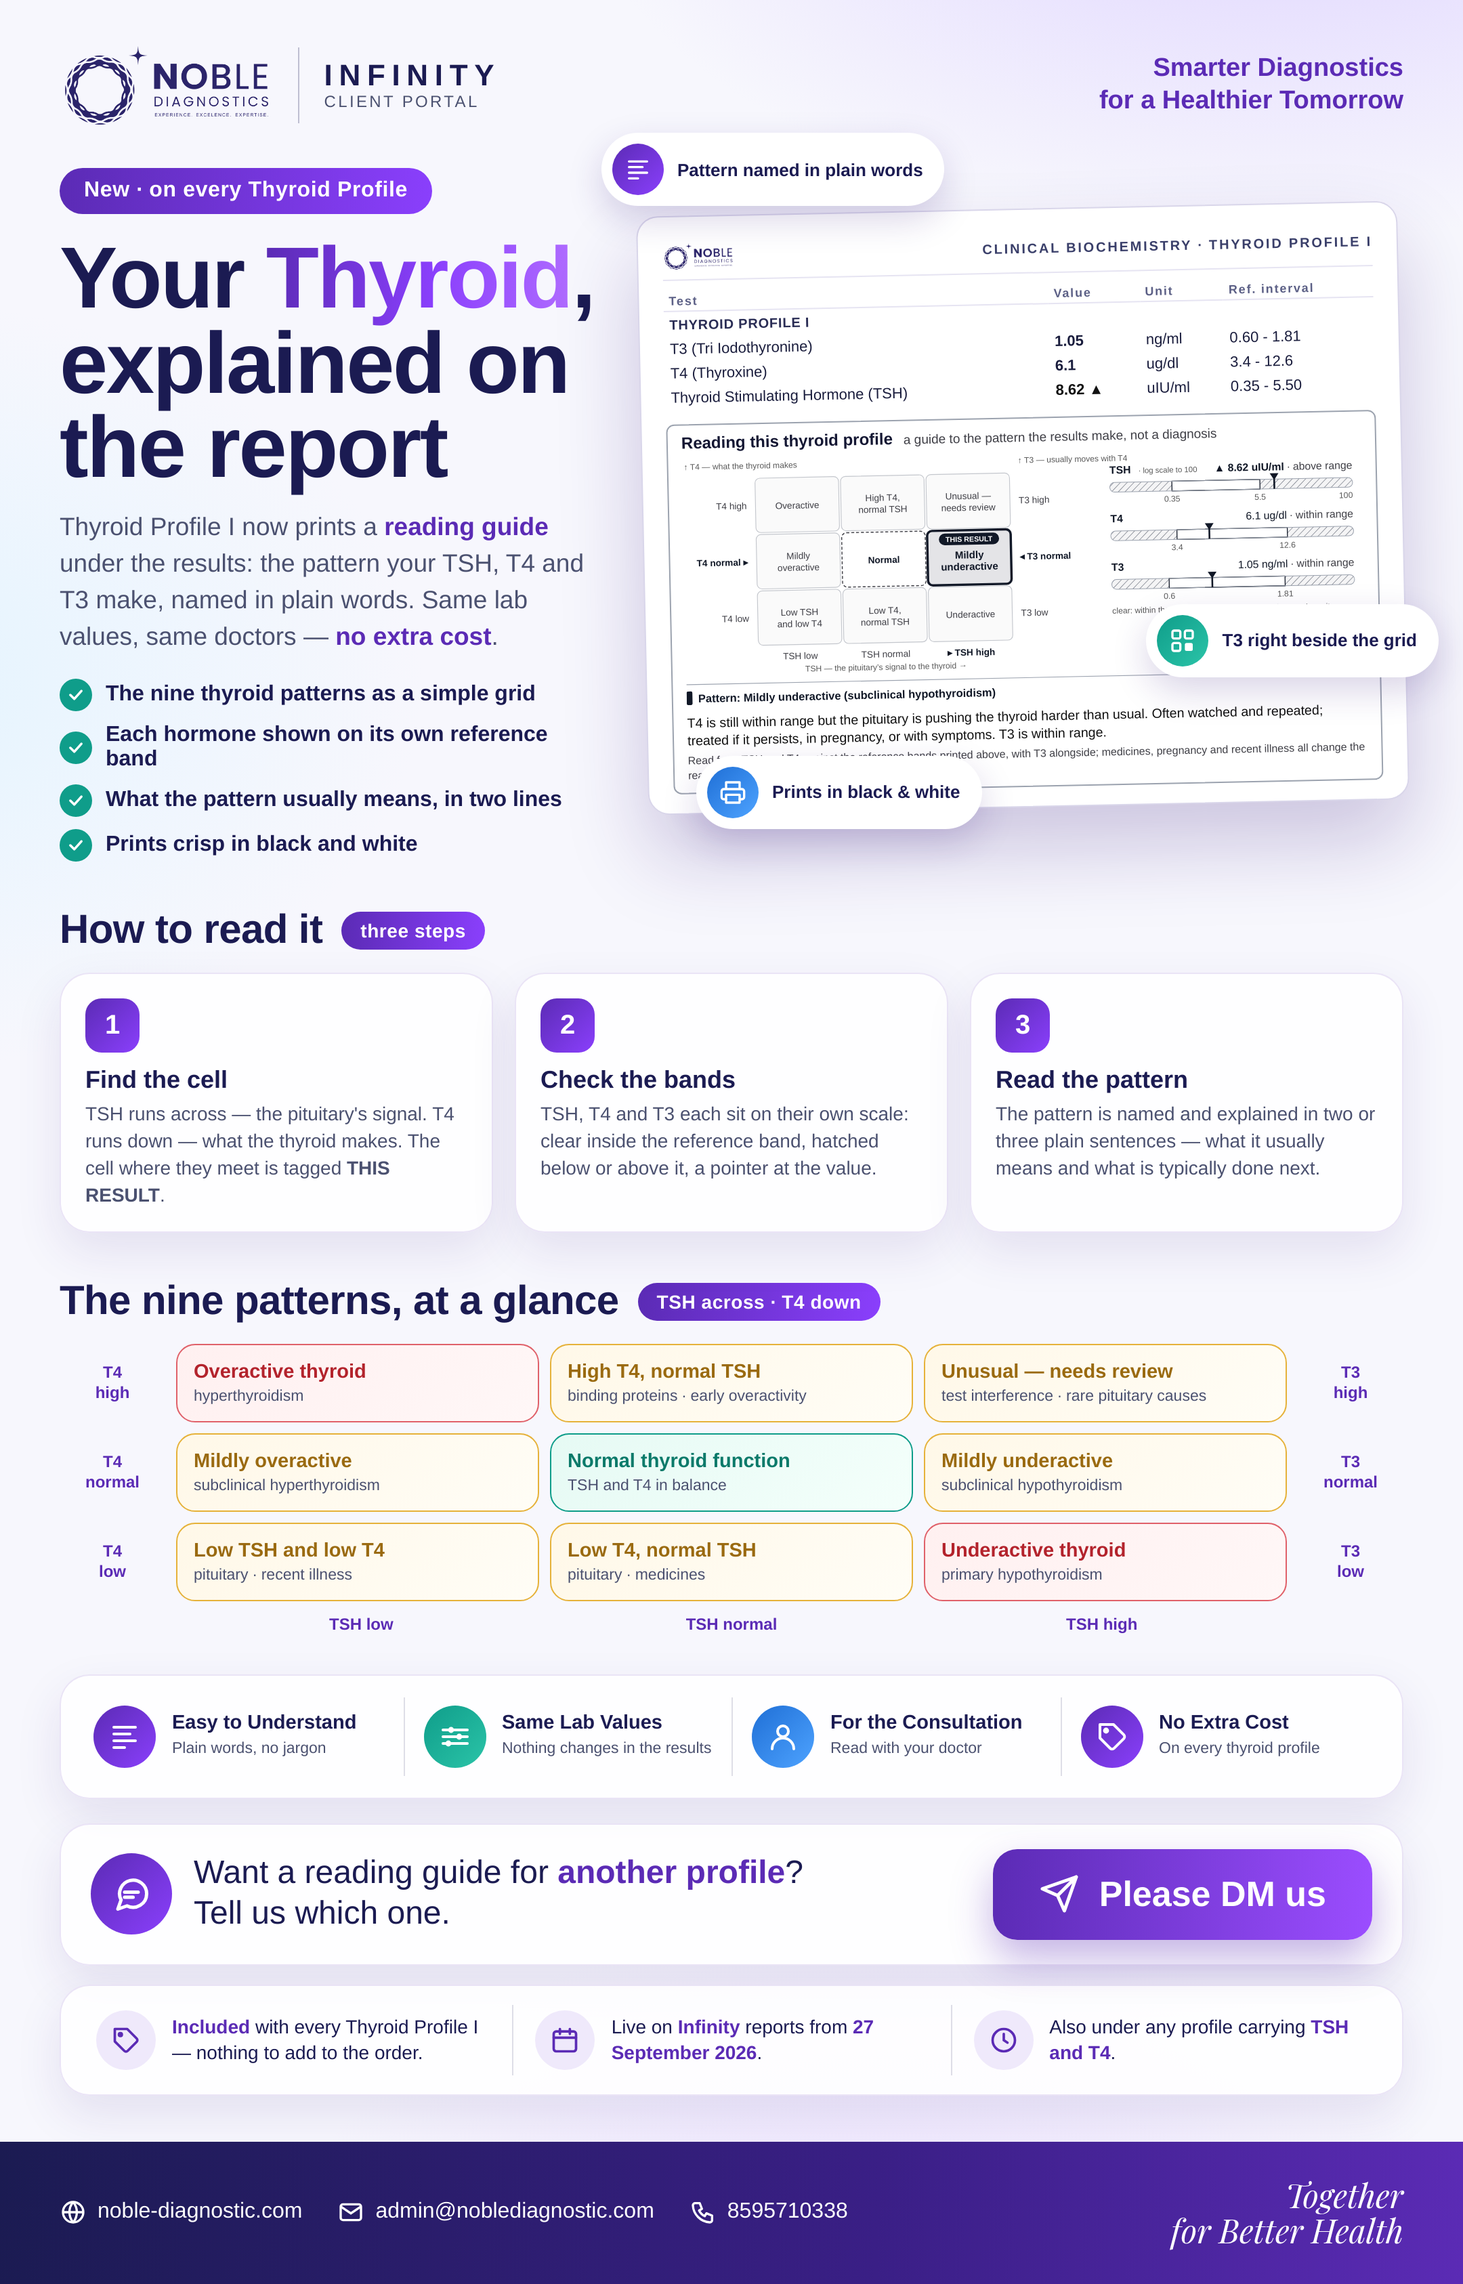
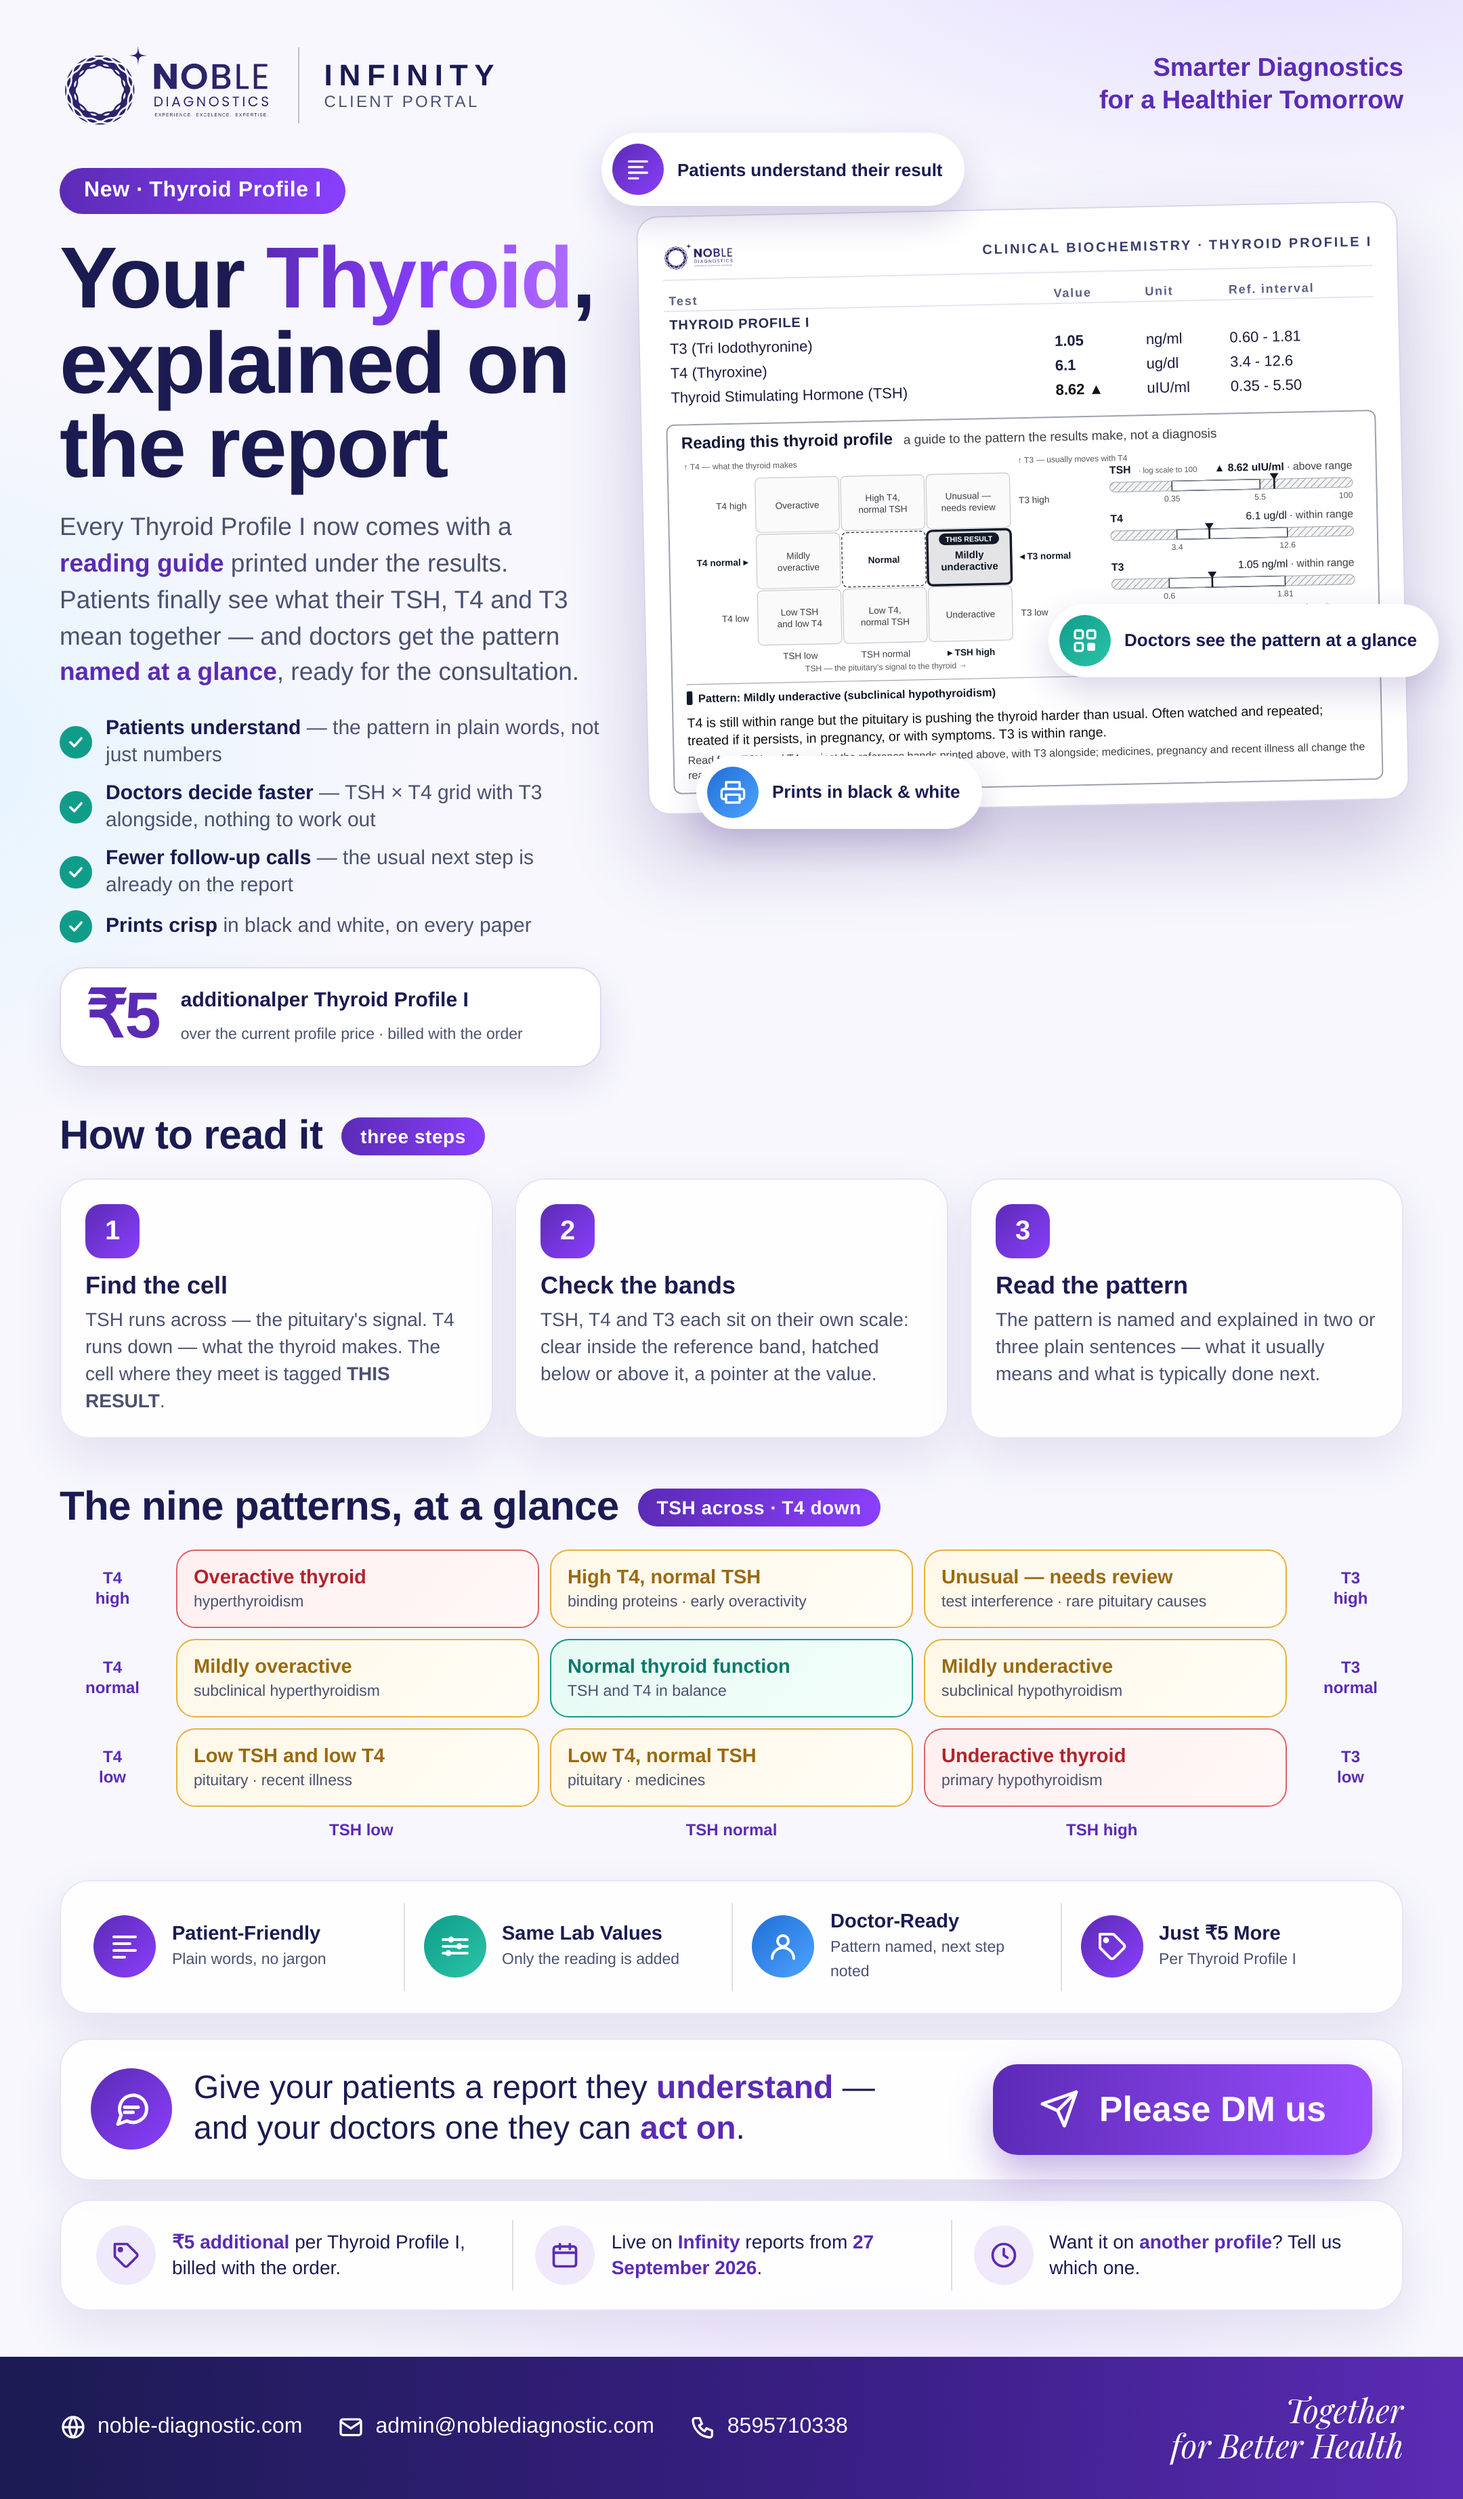
Marketing: thyroid poster — patient and doctor benefits, ₹5 per profile

diff --git a/docs/marketing/thyroid-reading-poster-20260927.html b/docs/marketing/thyroid-reading-poster-20260927.html
@@ -29,7 +29,13 @@ h1{font-size:64px;line-height:.98;letter-spacing:-.02em;color:var(--navy);margin
 .lead{font-size:18.5px;line-height:1.45;color:var(--muted)}
 .lead b{color:var(--purple)}
 .ticks{list-style:none;margin-top:18px;display:flex;flex-direction:column;gap:9px}
-.ticks li{display:flex;gap:10px;align-items:center;font-size:16px;font-weight:700;color:var(--navy)}
+.ticks li{display:flex;gap:10px;align-items:center;font-size:15px;color:var(--muted);line-height:1.3}.ticks li b{color:var(--navy)}
+.price{margin-top:18px;display:grid;grid-template-columns:auto 1fr;column-gap:16px;align-items:center;background:#fff;border:1.5px solid rgba(91,43,181,.18);border-radius:18px;padding:12px 18px;box-shadow:0 12px 28px rgba(60,30,130,.10)}
+.price .amt{font-size:48px;font-weight:700;color:var(--purple);letter-spacing:-.03em;line-height:1;grid-row:1/3}
+.price .per{font-size:15px;font-weight:700;color:var(--navy);line-height:1.2;white-space:nowrap}
+.price .per br{display:none}
+.price .note{font-size:11.5px;color:var(--muted);line-height:1.3;margin-top:3px}
+.price .note br{display:none}
 .ticks li i{width:24px;height:24px;border-radius:50%;background:var(--teal);display:inline-grid;place-items:center;flex:none}
 .ticks li i svg{width:14px;height:14px}
 .mock{position:relative;padding-top:30px}
@@ -108,15 +114,16 @@ h1{font-size:64px;line-height:.98;letter-spacing:-.02em;color:var(--navy);margin
   <div class="wrap">
     <div class="hero">
       <div>
-        <span class="pill">New · on every Thyroid Profile</span>
+        <span class="pill">New · Thyroid Profile I</span>
         <h1>Your <span class="grad">Thyroid</span>, explained on the report</h1>
-        <p class="lead">Thyroid Profile I now prints a <b>reading guide</b> under the results: the pattern your TSH, T4 and T3 make, named in plain words. Same lab values, same doctors — <b>no extra cost</b>.</p>
+        <p class="lead">Every Thyroid Profile I now comes with a <b>reading guide</b> printed under the results. Patients finally see what their TSH, T4 and T3 mean together — and doctors get the pattern <b>named at a glance</b>, ready for the consultation.</p>
         <ul class="ticks">
-          <li><i><svg viewBox="0 0 24 24" fill="none" stroke="#fff" stroke-width="3" stroke-linecap="round" stroke-linejoin="round"><path d="m5 12 5 5 9-10"/></svg></i>The nine thyroid patterns as a simple grid</li>
-          <li><i><svg viewBox="0 0 24 24" fill="none" stroke="#fff" stroke-width="3" stroke-linecap="round" stroke-linejoin="round"><path d="m5 12 5 5 9-10"/></svg></i>Each hormone shown on its own reference band</li>
-          <li><i><svg viewBox="0 0 24 24" fill="none" stroke="#fff" stroke-width="3" stroke-linecap="round" stroke-linejoin="round"><path d="m5 12 5 5 9-10"/></svg></i>What the pattern usually means, in two lines</li>
-          <li><i><svg viewBox="0 0 24 24" fill="none" stroke="#fff" stroke-width="3" stroke-linecap="round" stroke-linejoin="round"><path d="m5 12 5 5 9-10"/></svg></i>Prints crisp in black and white</li>
+          <li><i><svg viewBox="0 0 24 24" fill="none" stroke="#fff" stroke-width="3" stroke-linecap="round" stroke-linejoin="round"><path d="m5 12 5 5 9-10"/></svg></i><span><b>Patients understand</b> — the pattern in plain words, not just numbers</span></li>
+          <li><i><svg viewBox="0 0 24 24" fill="none" stroke="#fff" stroke-width="3" stroke-linecap="round" stroke-linejoin="round"><path d="m5 12 5 5 9-10"/></svg></i><span><b>Doctors decide faster</b> — TSH × T4 grid with T3 alongside, nothing to work out</span></li>
+          <li><i><svg viewBox="0 0 24 24" fill="none" stroke="#fff" stroke-width="3" stroke-linecap="round" stroke-linejoin="round"><path d="m5 12 5 5 9-10"/></svg></i><span><b>Fewer follow-up calls</b> — the usual next step is already on the report</span></li>
+          <li><i><svg viewBox="0 0 24 24" fill="none" stroke="#fff" stroke-width="3" stroke-linecap="round" stroke-linejoin="round"><path d="m5 12 5 5 9-10"/></svg></i><span><b>Prints crisp</b> in black and white, on every paper</span></li>
         </ul>
+        <div class="price"><span class="amt">₹5</span><span class="per">additional<br>per Thyroid Profile I</span><span class="note">over the current profile price · billed with the order</span></div>
       </div>
       <div class="mock">
         <div class="sheet">
@@ -162,8 +169,8 @@ h1{font-size:64px;line-height:.98;letter-spacing:-.02em;color:var(--navy);margin
             <p class="note">Read from TSH and T4 against the reference bands printed above, with T3 alongside; medicines, pregnancy and recent illness all change the reading. Your doctor interprets it with the clinical picture.</p>
           </div>
         </div>
-        <div class="badge b1"><i class="i-p"><svg viewBox="0 0 24 24" fill="none" stroke="#fff" stroke-width="2" stroke-linecap="round"><path d="M4 5h16M4 10h12M4 15h16M4 20h8"/></svg></i>Pattern named in plain words</div>
-        <div class="badge b2"><i class="i-t"><svg viewBox="0 0 24 24" fill="none" stroke="#fff" stroke-width="2" stroke-linecap="round"><rect x="3" y="3" width="7" height="7" rx="1.5"/><rect x="14" y="3" width="7" height="7" rx="1.5"/><rect x="3" y="14" width="7" height="7" rx="1.5"/><rect x="14" y="14" width="7" height="7" rx="1.5" fill="#fff" stroke="none"/></svg></i>T3 right beside the grid</div>
+        <div class="badge b1"><i class="i-p"><svg viewBox="0 0 24 24" fill="none" stroke="#fff" stroke-width="2" stroke-linecap="round"><path d="M4 5h16M4 10h12M4 15h16M4 20h8"/></svg></i>Patients understand their result</div>
+        <div class="badge b2"><i class="i-t"><svg viewBox="0 0 24 24" fill="none" stroke="#fff" stroke-width="2" stroke-linecap="round"><rect x="3" y="3" width="7" height="7" rx="1.5"/><rect x="14" y="3" width="7" height="7" rx="1.5"/><rect x="3" y="14" width="7" height="7" rx="1.5"/><rect x="14" y="14" width="7" height="7" rx="1.5" fill="#fff" stroke="none"/></svg></i>Doctors see the pattern at a glance</div>
         <div class="badge b3"><i class="i-b"><svg viewBox="0 0 24 24" fill="none" stroke="#fff" stroke-width="2" stroke-linecap="round" stroke-linejoin="round"><path d="M6 9V3h12v6M6 18H4a2 2 0 0 1-2-2v-5a2 2 0 0 1 2-2h16a2 2 0 0 1 2 2v5a2 2 0 0 1-2 2h-2"/><rect x="6" y="14" width="12" height="7"/></svg></i>Prints in black &amp; white</div>
       </div>
     </div>
@@ -186,21 +193,21 @@ h1{font-size:64px;line-height:.98;letter-spacing:-.02em;color:var(--navy);margin
     </div>
 
     <div class="card feat" style="margin-top:30px">
-      <div><i class="i-p"><svg viewBox="0 0 24 24" fill="none" stroke="#fff" stroke-width="2" stroke-linecap="round"><path d="M4 5h16M4 10h12M4 15h16M4 20h8"/></svg></i><div><b>Easy to Understand</b><small>Plain words, no jargon</small></div></div>
-      <div><i class="i-t"><svg viewBox="0 0 24 24" fill="none" stroke="#fff" stroke-width="2" stroke-linecap="round"><path d="M3 7h18M3 12h18M3 17h18"/><circle cx="9" cy="7" r="2.2" fill="#fff" stroke="none"/><circle cx="15" cy="12" r="2.2" fill="#fff" stroke="none"/><circle cx="7" cy="17" r="2.2" fill="#fff" stroke="none"/></svg></i><div><b>Same Lab Values</b><small>Nothing changes in the results</small></div></div>
-      <div><i class="i-b"><svg viewBox="0 0 24 24" fill="none" stroke="#fff" stroke-width="2" stroke-linecap="round" stroke-linejoin="round"><circle cx="12" cy="8" r="4"/><path d="M4 21a8 8 0 0 1 16 0"/></svg></i><div><b>For the Consultation</b><small>Read with your doctor</small></div></div>
-      <div><i class="i-p"><svg viewBox="0 0 24 24" fill="none" stroke="#fff" stroke-width="2" stroke-linecap="round" stroke-linejoin="round"><path d="M20.6 13.4 13.4 20.6a2 2 0 0 1-2.8 0L3 13V3h10l7.6 7.6a2 2 0 0 1 0 2.8z"/><circle cx="7.5" cy="7.5" r="1.2" fill="#fff"/></svg></i><div><b>No Extra Cost</b><small>On every thyroid profile</small></div></div>
+      <div><i class="i-p"><svg viewBox="0 0 24 24" fill="none" stroke="#fff" stroke-width="2" stroke-linecap="round"><path d="M4 5h16M4 10h12M4 15h16M4 20h8"/></svg></i><div><b>Patient-Friendly</b><small>Plain words, no jargon</small></div></div>
+      <div><i class="i-t"><svg viewBox="0 0 24 24" fill="none" stroke="#fff" stroke-width="2" stroke-linecap="round"><path d="M3 7h18M3 12h18M3 17h18"/><circle cx="9" cy="7" r="2.2" fill="#fff" stroke="none"/><circle cx="15" cy="12" r="2.2" fill="#fff" stroke="none"/><circle cx="7" cy="17" r="2.2" fill="#fff" stroke="none"/></svg></i><div><b>Same Lab Values</b><small>Only the reading is added</small></div></div>
+      <div><i class="i-b"><svg viewBox="0 0 24 24" fill="none" stroke="#fff" stroke-width="2" stroke-linecap="round" stroke-linejoin="round"><circle cx="12" cy="8" r="4"/><path d="M4 21a8 8 0 0 1 16 0"/></svg></i><div><b>Doctor-Ready</b><small>Pattern named, next step noted</small></div></div>
+      <div><i class="i-p"><svg viewBox="0 0 24 24" fill="none" stroke="#fff" stroke-width="2" stroke-linecap="round" stroke-linejoin="round"><path d="M20.6 13.4 13.4 20.6a2 2 0 0 1-2.8 0L3 13V3h10l7.6 7.6a2 2 0 0 1 0 2.8z"/><circle cx="7.5" cy="7.5" r="1.2" fill="#fff"/></svg></i><div><b>Just ₹5 More</b><small>Per Thyroid Profile I</small></div></div>
     </div>
 
     <div class="card cta" style="margin-top:18px">
-      <div class="l"><i><svg viewBox="0 0 24 24" fill="none" stroke="#fff" stroke-width="2" stroke-linecap="round" stroke-linejoin="round"><path d="M21 12a8 8 0 0 1-11.6 7.1L4 21l1.9-5.4A8 8 0 1 1 21 12z"/><path d="M8 11h8M8 14h5"/></svg></i><span>Want a reading guide for <b>another profile</b>?<br>Tell us which one.</span></div>
+      <div class="l"><i><svg viewBox="0 0 24 24" fill="none" stroke="#fff" stroke-width="2" stroke-linecap="round" stroke-linejoin="round"><path d="M21 12a8 8 0 0 1-11.6 7.1L4 21l1.9-5.4A8 8 0 1 1 21 12z"/><path d="M8 11h8M8 14h5"/></svg></i><span>Give your patients a report they <b>understand</b> —<br>and your doctors one they can <b>act on</b>.</span></div>
       <div class="btn"><svg viewBox="0 0 24 24" fill="none" stroke="#fff" stroke-width="2" stroke-linecap="round" stroke-linejoin="round"><path d="M22 2 11 13M22 2l-7 20-4-9-9-4z"/></svg>Please DM us</div>
     </div>
 
     <div class="card facts">
-      <div><i><svg viewBox="0 0 24 24" fill="none" stroke="#5b2bb5" stroke-width="2" stroke-linecap="round" stroke-linejoin="round"><path d="M20.6 13.4 13.4 20.6a2 2 0 0 1-2.8 0L3 13V3h10l7.6 7.6a2 2 0 0 1 0 2.8z"/><circle cx="7.5" cy="7.5" r="1.2" fill="#5b2bb5"/></svg></i><span><b>Included</b> with every Thyroid Profile I — nothing to add to the order.</span></div>
+      <div><i><svg viewBox="0 0 24 24" fill="none" stroke="#5b2bb5" stroke-width="2" stroke-linecap="round" stroke-linejoin="round"><path d="M20.6 13.4 13.4 20.6a2 2 0 0 1-2.8 0L3 13V3h10l7.6 7.6a2 2 0 0 1 0 2.8z"/><circle cx="7.5" cy="7.5" r="1.2" fill="#5b2bb5"/></svg></i><span><b>₹5 additional</b> per Thyroid Profile I, billed with the order.</span></div>
       <div><i><svg viewBox="0 0 24 24" fill="none" stroke="#5b2bb5" stroke-width="2" stroke-linecap="round"><rect x="3" y="5" width="18" height="16" rx="2"/><path d="M3 10h18M8 3v4M16 3v4"/></svg></i><span>Live on <b>Infinity</b> reports from <b>27 September 2026</b>.</span></div>
-      <div><i><svg viewBox="0 0 24 24" fill="none" stroke="#5b2bb5" stroke-width="2" stroke-linecap="round"><circle cx="12" cy="12" r="9"/><path d="M12 7v5l3 2"/></svg></i><span>Also under any profile carrying <b>TSH and T4</b>.</span></div>
+      <div><i><svg viewBox="0 0 24 24" fill="none" stroke="#5b2bb5" stroke-width="2" stroke-linecap="round"><circle cx="12" cy="12" r="9"/><path d="M12 7v5l3 2"/></svg></i><span>Want it on <b>another profile</b>? Tell us which one.</span></div>
     </div>
   </div>
 
